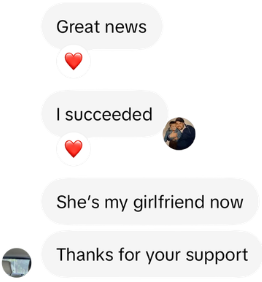
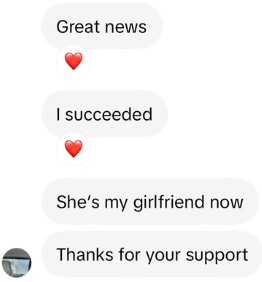
Remove stray profile photo from first review
Claude-Session: https://claude.ai/code/session_01WogwoYdvZJvxCboscWCBXS

Changed region(s): [[0.6107, 0.3972, 0.7634, 0.539]]

diff --git a/index.html b/index.html
@@ -131,7 +131,7 @@
         <h2 class="pc-h2">What guys tell me.</h2>
         <div class="pc-carousel" aria-roledescription="carousel" aria-label="Messages from men I've helped">
           <ul class="pc-reviews" tabindex="0">
-            <li class="pc-review"><img src="/images/reviews/r01.png?v=2" alt="Message from a man Sean helped" loading="lazy" /></li>
+            <li class="pc-review"><img src="/images/reviews/r01.png?v=3" alt="Message from a man Sean helped" loading="lazy" /></li>
             <li class="pc-review"><img src="/images/reviews/r02.png?v=2" alt="Message from a man Sean helped" loading="lazy" /></li>
             <li class="pc-review"><img src="/images/reviews/r04.png?v=2" alt="Message from a man Sean helped" loading="lazy" /></li>
             <li class="pc-review"><img src="/images/reviews/r05.png?v=2" alt="Message from a man Sean helped" loading="lazy" /></li>
